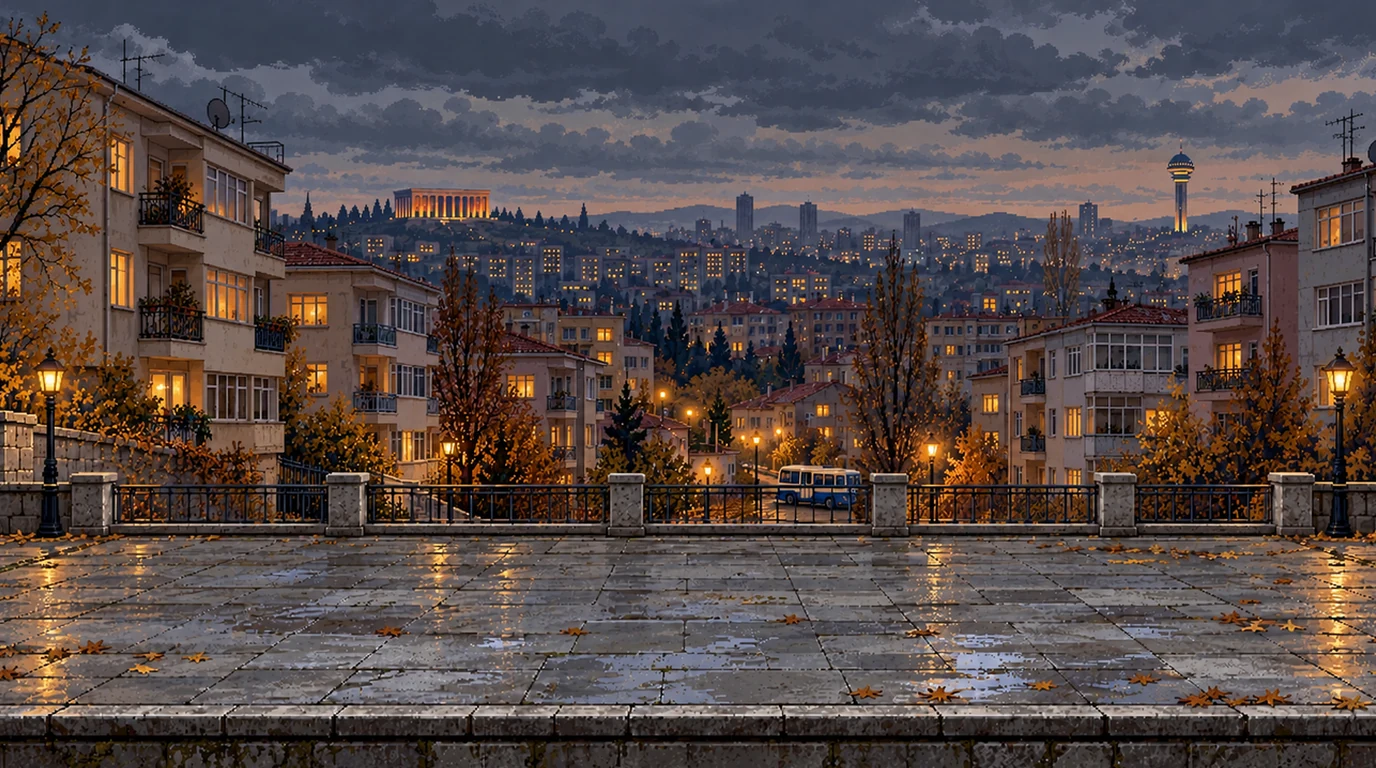
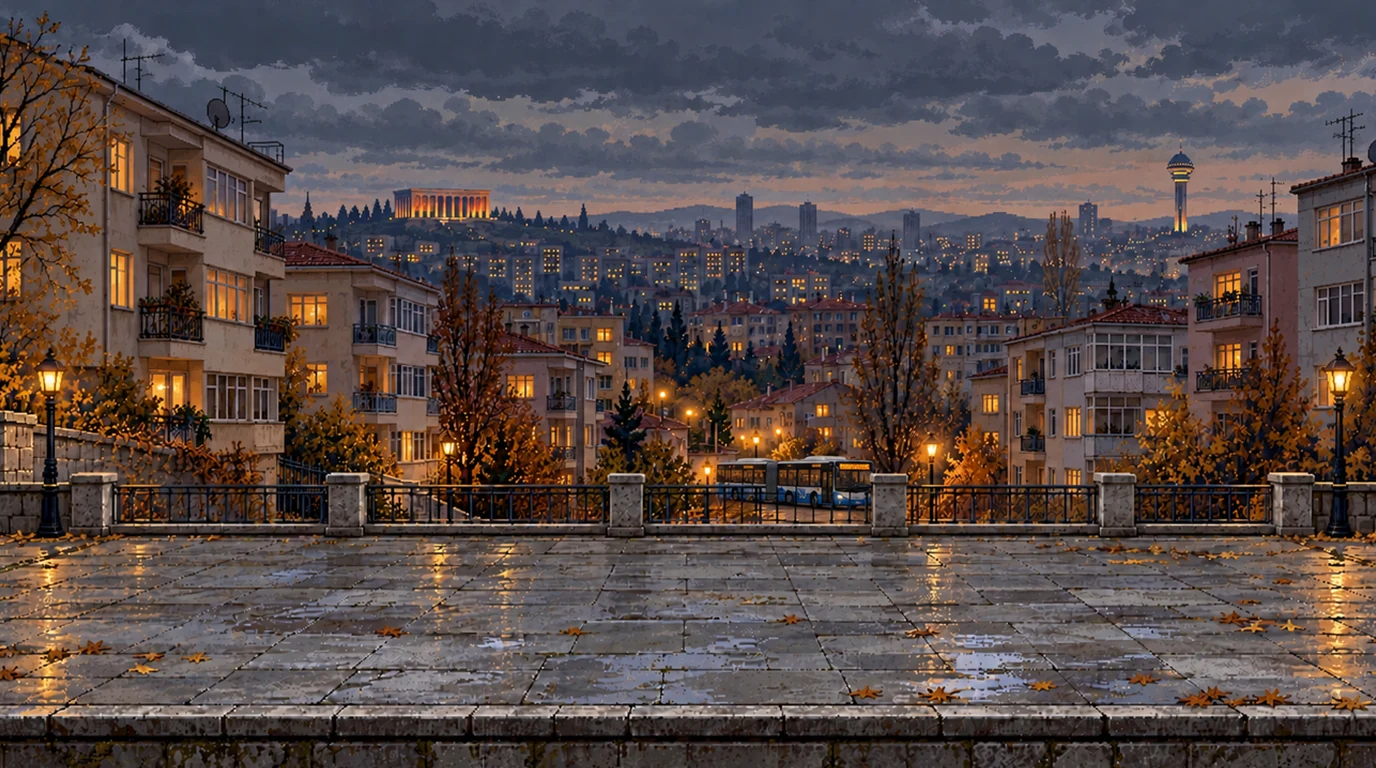
ANKARA arenası: arka plandaki araç EGO körüklü otobüs oldu
- Turuncu LED tabela okunmaz (hat numarası yok); zemin hizası aynı
- ankara_sehir.webp?v=2 (tarayıcı önbelleği yenilensin)

diff --git a/index.html b/index.html
@@ -14,10 +14,10 @@
     <link rel="stylesheet" href="css/ek.css" />
 
     <!-- Oyun kodunun kullandığı asset yollarını gerçek dosyalara eşler -->
-    <script src="js/assets.js?v=50fa7106"></script>
+    <script src="js/assets.js?v=613cdc79"></script>
   </head>
   <body>
     <div id="root"></div>
-    <script type="module" src="js/game.bundle.js?v=50fa7106"></script>
+    <script type="module" src="js/game.bundle.js?v=613cdc79"></script>
   </body>
 </html>

diff --git a/js/assets.js b/js/assets.js
@@ -3,7 +3,7 @@
 window.__ANKARA_ASSETS__ = {
   "/assets/ankara_map.png": "assets/ankara_map.webp",
   "/assets/samsun_arena.png": "assets/samsun_arena.webp?v=1",
-  "/assets/ankara_sehir.png": "assets/ankara_sehir.webp?v=1",
+  "/assets/ankara_sehir.png": "assets/ankara_sehir.webp?v=2",
   "/assets/corum_arena.png": "assets/corum_arena.webp?v=1",
   "/assets/sakarya_arena.png": "assets/sakarya_arena.webp?v=1",
   "/assets/selim.png": "assets/selim.webp?v=1",

diff --git a/docs/ANALIZ.md b/docs/ANALIZ.md
@@ -846,3 +846,4 @@ Test kancası: `window.__AF_match` (çalışan maç nesnesi; yalnızca testler/h
 
 - Arena ayarı `rain: true` (`AF_ARENAS.ankara`). `AF_rain` (src/50): arka katman (240 ince damla, dövüşçülerin arkasında, sahneyi hafif karartır, zeminde sıçramalar) + ön katman (75 kalın damla, dövüşçülerin önünde). Rüzgârla hafif eğik; gerçek zamanla akar. 60 FPS korunuyor.
 - Arena seçiminde ANKARA hava durumu: Yağmurlu.
+- Arka plandaki araç **EGO körüklü otobüs** oldu (ChatGPT düzenlemesi, turuncu tabela okunmaz; zemin kenarı aynı, `ankara_sehir.webp?v=2`).
